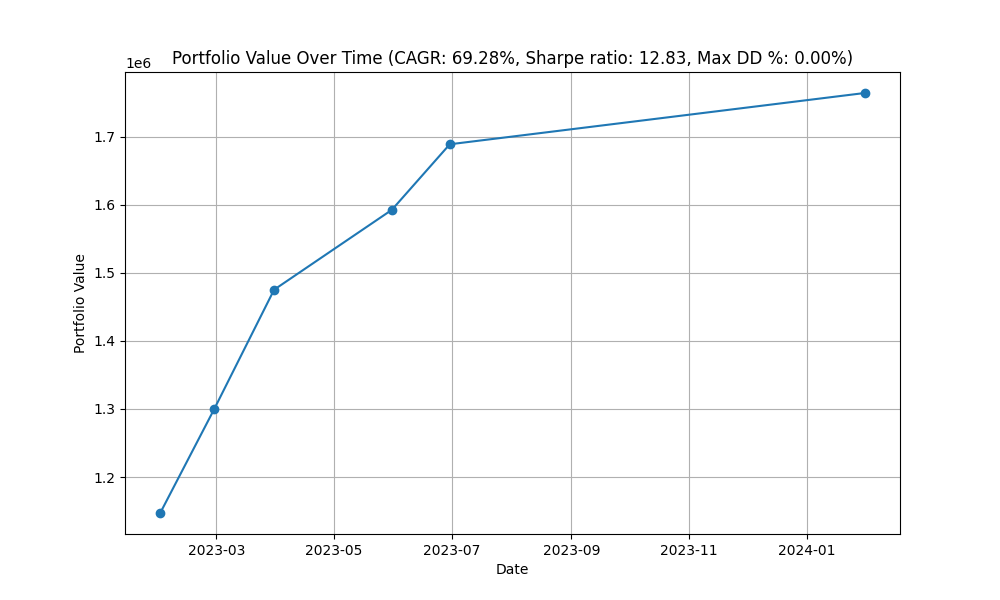
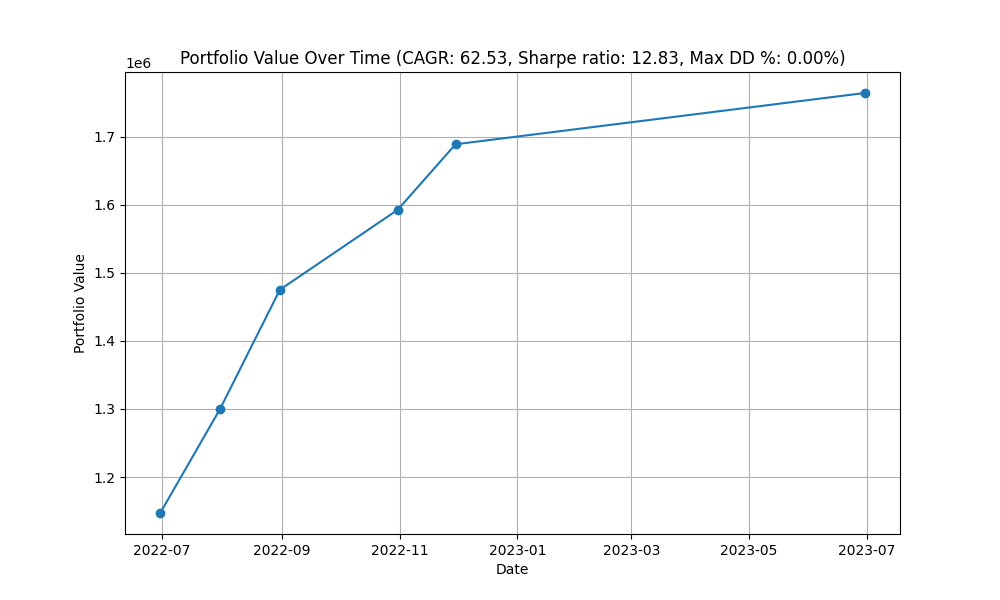
Made logic simpler, removed complicacies, added entry date to order book

diff --git a/test_sim.py b/test_sim.py
@@ -40,115 +40,93 @@ def calculate_percentage_change(values, N):
         pct_changes.append(pct_change)
     return pct_changes
 
+N = 7 # Number of months ahead for percentage change calculation (note that this will be unique for a particular test set, will usually lie between 1 and 9)
+
+percentage_changes_pred = calculate_percentage_change(monthly_predictions, N)
+# print(f"Percentage changes for the next {N} months (predictions):", percentage_changes_pred)
+
+y_true = monthly_data['NG_Spot_Price'].values
+percentage_changes_true = calculate_percentage_change(y_true, N)
+# print(f"Percentage changes for the next {N} months (ground truth):", percentage_changes_true)
+
+min_length = min(len(percentage_changes_pred), len(percentage_changes_true))
+percentage_changes_pred = percentage_changes_pred[:min_length]
+percentage_changes_true = percentage_changes_true[:min_length]
+
+dates = monthly_data['DATE'][N:N + min_length]
+
+# Simulator
+initial_aum = 1000000 # AUM
+risk_tolerance = 1  # Risk factor
 threshold = 15
-initial_aum = 1000000
-risk_tolerance = 1
+max_risk_amount = initial_aum * risk_tolerance
 
-def evaluate_strategy(N, threshold=threshold, initial_aum=initial_aum, risk_tolerance=risk_tolerance):
-    percentage_changes_pred = calculate_percentage_change(monthly_predictions, N)
-    y_true = monthly_data['NG_Spot_Price'].values
-    percentage_changes_true = calculate_percentage_change(y_true, N)
+portfolio_value = initial_aum
+position_values = []
+portfolio_values = []
+order_book = []
+trade_dates = []
+entry_exit_dates = []
 
-    min_length = min(len(percentage_changes_pred), len(percentage_changes_true))
-    percentage_changes_pred = percentage_changes_pred[:min_length]
-    percentage_changes_true = percentage_changes_true[:min_length]
+#Static exit after N months
 
-    if len(monthly_data['DATE']) < N + min_length:
-        return None
+for i in range(len(percentage_changes_pred)):
+    position_size = max_risk_amount * abs(percentage_changes_pred[i]) / 100
+    position_direction = np.sign(percentage_changes_pred[i])
+    entry_date = dates.iloc[i]
+    if abs(percentage_changes_pred[i]) > threshold:
+        direction = 'LONG' if position_direction > 0 else 'SHORT'
+        order_book.append((direction, position_size, entry_date))
 
-    dates = monthly_data['DATE'][N:N + min_length]
+        profit_loss = (position_size * percentage_changes_true[i] / 100 * position_direction) - position_size * 0.05 #Includes 5% commission
+        portfolio_value += profit_loss
+        position_values.append(profit_loss)
+        portfolio_values.append(portfolio_value)
+        trade_dates.append(monthly_data['DATE'].iloc[i])
+        entry_exit_dates.append((entry_date))
 
-    max_risk_amount = initial_aum * risk_tolerance
-    portfolio_value = initial_aum
-    position_values = []
-    portfolio_values = []
-    order_book = []
-    trade_dates = []
+#Metrics
+returns = np.array(position_values)
+mean_return = np.mean(returns)
+std_return = np.std(returns)
+sharpe_ratio = mean_return / std_return * np.sqrt(12)
 
-    for i in range(len(percentage_changes_pred)):
-        position_size = max_risk_amount * abs(percentage_changes_pred[i]) / 100
-        position_direction = np.sign(percentage_changes_pred[i])
+cumulative_returns = np.cumsum(returns)
+running_max = np.maximum.accumulate(cumulative_returns)
+drawdown = cumulative_returns - running_max
+max_drawdown = drawdown.min()
+years = (monthly_data['DATE'].iloc[min_length] - monthly_data['DATE'].iloc[0]).days / 365.25
+cagr = ((portfolio_value / initial_aum) ** (1 / years) - 1) * 100
 
-        if abs(percentage_changes_pred[i]) > threshold:
-            direction = 'LONG' if position_direction > 0 else 'SHORT'
-            order_book.append((direction, position_size))
+print(f'Initial aum: {initial_aum}')
+print(f'Risk: {risk_tolerance * 100}', '%')
+print(f'Sharpe Ratio: {sharpe_ratio}')
+print(f'Maximum Drawdown: {max_drawdown}')
+print(f'Max DD %: {(np.abs(max_drawdown)/initial_aum) * 100}', '%')
+print(f'Final Portfolio Value: {portfolio_value}')
+print(f'CAGR: {cagr}')
 
-            profit_loss = (position_size * percentage_changes_true[i] / 100 * position_direction) - position_size * 0.05  # Includes 5% commission
-            portfolio_value += profit_loss
-            position_values.append(profit_loss)
-            portfolio_values.append(portfolio_value)
-            trade_dates.append(dates.iloc[i])
 
-    returns = np.array(position_values)
-    mean_return = np.mean(returns)
-    std_return = np.std(returns)
-    sharpe_ratio = mean_return / std_return * np.sqrt(12) if std_return != 0 else 0
+# Print the order book
+print("\nOrder Book:")
+print("Direction\tSize\tEntry Date")
+for order in order_book:
+    print(f"{order[0]}\t{order[1]:.2f}\t{order[2].strftime('%Y-%m-%d')}")
 
-    cumulative_returns = np.cumsum(returns)
-    running_max = np.maximum.accumulate(cumulative_returns)
-    drawdown = cumulative_returns - running_max
-    max_drawdown = drawdown.min()
+plt.figure(figsize=(10, 6))
+plt.plot(dates, percentage_changes_true, label=f'Actual NG Spot Price (percent change, next {N} month(s))', color='blue', marker='o')
+plt.plot(dates, percentage_changes_pred, label=f'Predicted NG Spot Price (predicted percent change, next {N} month(s))', color='red', marker='x')
+plt.xlabel('Date')
+plt.ylabel('NG Spot Price change (%)')
+plt.title('Actual vs Predicted changes in NG Spot Price')
+plt.legend()
+plt.grid(True)
+plt.show()
 
-    if len(dates) > 0:
-        years = (dates.iloc[-1] - dates.iloc[0]).days / 365.25
-        cagr = ((portfolio_value / initial_aum) ** (1 / years) - 1) * 100 if years != 0 else 0
-    else:
-        cagr = 0
-
-    return {
-        'N': N,
-        'Sharpe Ratio': sharpe_ratio,
-        'Max Drawdown': max_drawdown,
-        'CAGR': cagr,
-        'Portfolio Value': portfolio_value,
-        'Order Book': order_book,
-        'Trade Dates': trade_dates,
-        'Portfolio Values': portfolio_values,
-        'Percentage Changes True': percentage_changes_true,
-        'Percentage Changes Pred': percentage_changes_pred,
-        'Dates': dates
-    }
-
-best_result = None
-best_N = None
-
-for N in range(1, 9):  # Adjust the range as needed
-    result = evaluate_strategy(N)
-    if result and (best_result is None or (result['Sharpe Ratio'] > best_result['Sharpe Ratio'] and result['Max Drawdown'] > -initial_aum)):
-        best_result = result
-        best_N = N
-
-if best_result:
-    print(f'Best N: {best_N}')
-    print(f"Sharpe Ratio: {best_result['Sharpe Ratio']}")
-    print(f"Max Drawdown: {best_result['Max Drawdown']}")
-    print(f"Max DD %: {(np.abs(best_result['Max Drawdown']) / initial_aum) * 100}%")
-    print(f"Final Portfolio Value: {best_result['Portfolio Value']}")
-    print(f"CAGR: {best_result['CAGR']}")
-
-    # Print the order book
-    print("\nOrder Book:")
-    print("Direction\tSize")
-    for order in best_result['Order Book']:
-        print(f"{order[0]}\t{order[1]:.2f}")
-
-    # Graphing
-    plt.figure(figsize=(10, 6))
-    plt.plot(best_result['Dates'], best_result['Percentage Changes True'], label=f'Actual NG Spot Price (percent change, next {best_N} month(s))', color='blue', marker='o')
-    plt.plot(best_result['Dates'], best_result['Percentage Changes Pred'], label=f'Predicted NG Spot Price (predicted percent change, next {best_N} month(s))', color='red', marker='x')
-    plt.xlabel('Date')
-    plt.ylabel('NG Spot Price change (%)')
-    plt.title('Actual vs Predicted changes in NG Spot Price')
-    plt.legend()
-    plt.grid(True)
-    plt.show()
-
-    plt.figure(figsize=(10, 6))
-    plt.plot(best_result['Trade Dates'], best_result['Portfolio Values'], marker='o')
-    plt.xlabel('Date')
-    plt.ylabel('Portfolio Value')
-    plt.title(f'Portfolio Value Over Time (CAGR: {best_result["CAGR"]:.2f}%, Sharpe ratio: {best_result["Sharpe Ratio"]:.2f}, Max DD %: {((np.abs(best_result["Max Drawdown"]) / initial_aum) * 100):.2f}%)')
-    plt.grid(True)
-    plt.show()
-else:
-    print("No valid results found.")
+plt.figure(figsize=(10, 6))
+plt.plot(trade_dates, portfolio_values, marker='o')
+plt.xlabel('Date')
+plt.ylabel('Portfolio Value')
+plt.title(f'Portfolio Value Over Time (CAGR: {cagr:.2f}, Sharpe ratio: {sharpe_ratio:.2f}, Max DD %: {((np.abs(max_drawdown) / initial_aum) * 100):.2f}%)')
+plt.grid(True)
+plt.show()
